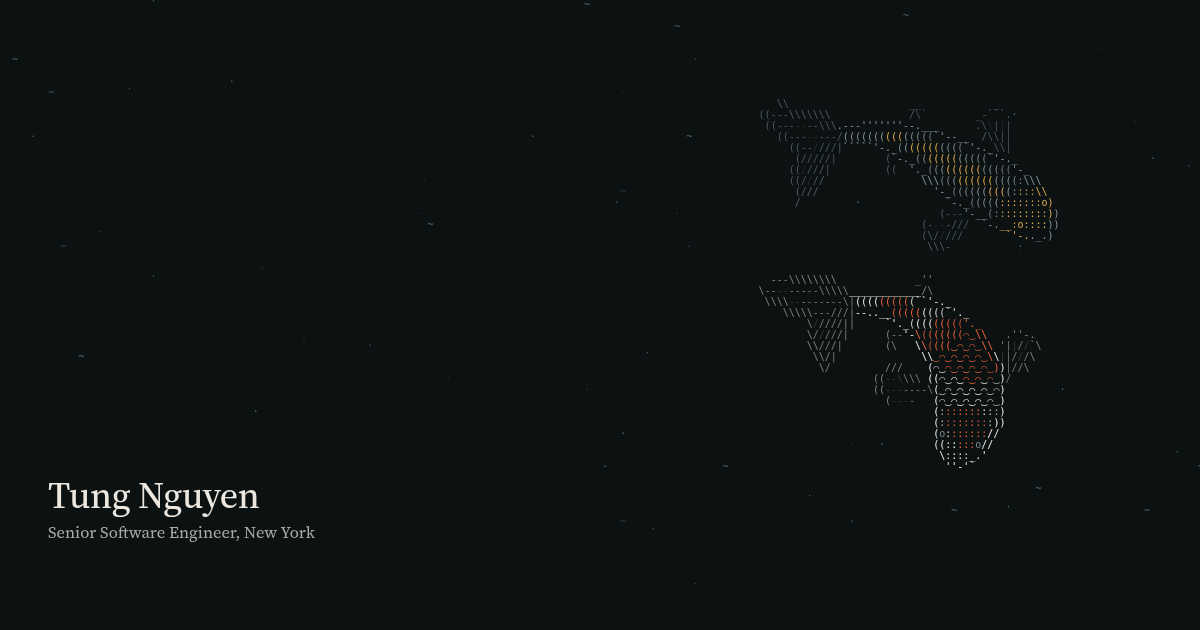
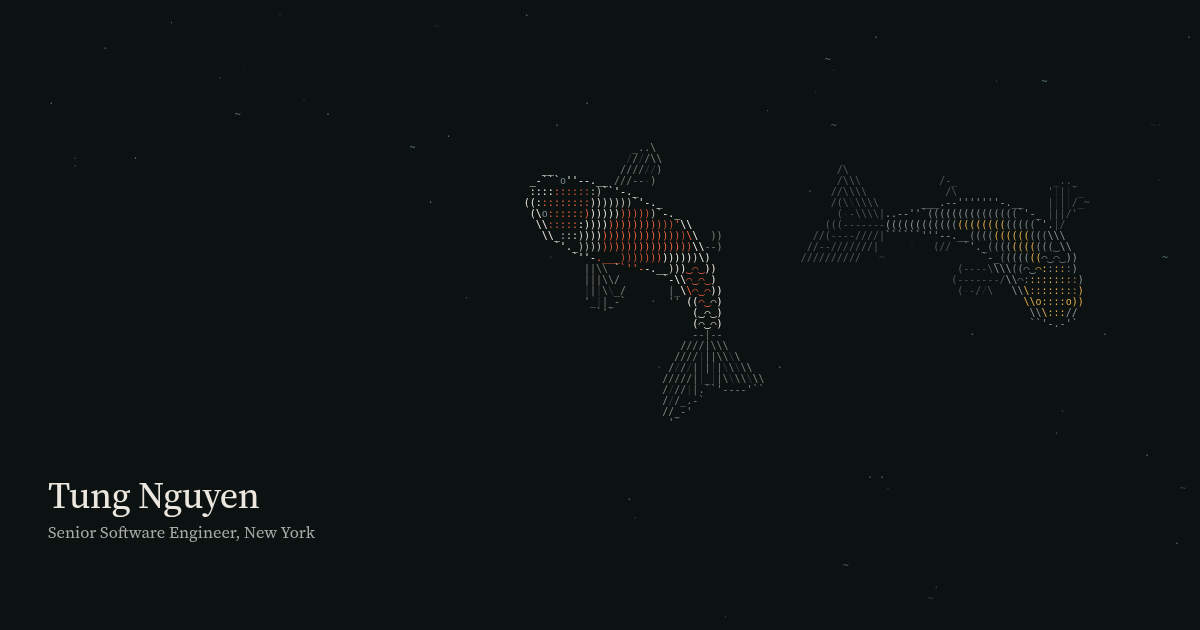
Keep the koi spine smooth: bend-limited placement instead of per-point projection, no head push at the other fish, spawn on the orbit
Each spine link is placed at the angle nearest its follow-the-leader direction, within 17 degrees of the previous link and 206 degrees of total curl, clear of the screen edge, the text and the other fish. Leftover overlap moves the whole fish by at most 1% of its length per frame. The head slides along the other fish instead of being pushed sideways, and both fish start laid along their lane at a random phase. OG still regenerated.

diff --git a/src/koi/koi.ts b/src/koi/koi.ts
@@ -1,9 +1,10 @@
 import { put, type Grid, type InkId } from './grid.ts'
-import { TAU, clamp, clear, ease, inside, smooth, wrap, type Rect } from './math.ts'
+import { TAU, clamp, clear, distance, ease, inside, smooth, wrap, type Rect } from './math.ts'
 
 export type Patch = { along: number; across: number; alongRadius: number; acrossRadius: number }
 export type Look = { body: InkId; patch: InkId; fin: InkId; eye: InkId; patches: readonly Patch[] }
-export type Water = { width: number; height: number; fence: Rect | null }
+export type Water = { width: number; height: number; fence: Rect | null; rival: Float64Array | null }
+export type Orbit = { x: number; y: number; rx: number; ry: number }
 
 export type Koi = {
   look: Look
@@ -19,6 +20,7 @@ export type Koi = {
   scull: number
   chain: Float64Array
   pressed: boolean
+  shy: { x: number; y: number }
 }
 
 const N = 30
@@ -28,6 +30,9 @@ const WIDTH = 0.118
 const WAIST = 0.26
 const FAN = 0.12
 const BEND = 0.5
+const LIMIT = 0.3
+const STEP = LIMIT / 6
+const CURL = 3.6
 
 const qx = new Float64Array(N + 1)
 const qy = new Float64Array(N + 1)
@@ -36,7 +41,6 @@ const sy = new Float64Array(N)
 const sl = new Float64Array(N)
 const hit = { s: 0, d: 0, tx: 1, ty: 0, ex: 0, ey: 0 }
 const at = { x: 0, y: 0 }
-const held = { x: 0, y: 0 }
 const root = { x: 0, y: 0 }
 const norm = { x: 0, y: 0, g: 1 }
 const span = { c0: 0, c1: 0, r0: 0, r1: 0 }
@@ -44,13 +48,18 @@ const SIDES = [-1, 1]
 let target: Grid
 let clip: Rect | null = null
 
-export function createKoi(look: Look, length: number, x: number, y: number, heading: number): Koi {
+export function createKoi(look: Look, length: number, orbit: Orbit, angle: number, water: Water): Koi {
   const chain = new Float64Array((N + 1) * 2)
+  let a = angle
   for (let i = 0; i <= N; i++) {
-    chain[i * 2] = x - Math.cos(heading) * (length / N) * i
-    chain[i * 2 + 1] = y - Math.sin(heading) * (length / N) * i
+    chain[i * 2] = orbit.x + orbit.rx * Math.cos(a)
+    chain[i * 2 + 1] = orbit.y + orbit.ry * Math.sin(a)
+    a -= length / N / (Math.hypot(orbit.rx * Math.sin(a), orbit.ry * Math.cos(a)) || 1)
   }
-  return { look, length, x, y, heading, speed: 0, turn: 0, bank: 0, phase: 0, effort: 1, scull: 0, chain, pressed: false }
+  const heading = Math.atan2(orbit.ry * Math.cos(angle), -orbit.rx * Math.sin(angle))
+  const koi = { look, length, x: chain[0], y: chain[1], heading, speed: 0, turn: 0, bank: 0, phase: 0, effort: 1, scull: 0, chain, pressed: false, shy: { x: 0, y: 0 } }
+  follow(koi, water)
+  return koi
 }
 
 export function resizeKoi(koi: Koi, length: number, scaleX: number, scaleY: number) {
@@ -74,40 +83,103 @@ export function swim(koi: Koi, dt: number, heading: number, speed: number, glidi
   koi.turn += (want - koi.turn) * ease(1.8, dt)
   koi.heading = wrap(koi.heading + koi.turn * dt)
   koi.speed += (speed - koi.speed) * ease(gliding ? 0.25 : 0.8, dt)
-  koi.x += Math.cos(koi.heading) * koi.speed * dt
-  koi.y += Math.sin(koi.heading) * koi.speed * dt
+  const vx = Math.cos(koi.heading) * koi.speed
+  const vy = Math.sin(koi.heading) * koi.speed
+  const into = Math.min(0, vx * koi.shy.x + vy * koi.shy.y)
+  koi.x += (vx - into * koi.shy.x) * dt
+  koi.y += (vy - into * koi.shy.y) * dt
   const curl = clamp((koi.turn * L * BEND) / Math.max(koi.speed, 1), -1, 1)
   koi.bank += (curl - koi.bank) * ease(2.5, dt)
   koi.effort += ((gliding ? 0.15 : 1) - koi.effort) * ease(1.1, dt)
   koi.phase += TAU * (0.2 + (1.6 * koi.speed) / L) * (0.3 + 0.7 * koi.effort) * dt
   koi.scull += TAU * (0.3 + 0.35 * Math.abs(koi.bank) + 0.2 * koi.effort) * dt
+  follow(koi, water)
+}
+
+function follow(koi: Koi, water: Water) {
   const c = koi.chain
-  const link = L / N
-  c[0] = koi.x
-  c[1] = koi.y
-  koi.pressed = hold(c, 0, L, water)
+  const L = koi.length
+  hold(koi.x, koi.y, L * margin(1), water)
+  koi.pressed = at.x !== koi.x || at.y !== koi.y
+  c[0] = at.x
+  c[1] = at.y
+  let back = Math.atan2(c[3] - c[1], c[2] - c[0])
+  let bent = 0
   for (let i = 1; i <= N; i++) {
-    const dx = c[i * 2] - c[i * 2 - 2]
-    const dy = c[i * 2 + 1] - c[i * 2 - 1]
-    const m = Math.hypot(dx, dy) || 1
-    c[i * 2] = c[i * 2 - 2] + (dx / m) * link
-    c[i * 2 + 1] = c[i * 2 - 1] + (dy / m) * link
-    hold(c, i, L, water)
+    const bend = place(c, i, L, back, bent, water)
+    back += bend
+    if (i > 1) bent += bend
   }
+  koi.pressed = nudge(c, L, water) || koi.pressed
   koi.x = c[0]
   koi.y = c[1]
 }
 
-function hold(c: Float64Array, i: number, L: number, water: Water) {
-  const s = i / N
-  const m = L * (0.03 + (s < TAIL ? halfWidth(s) : fanWidth((s - TAIL) / (1 - TAIL))))
-  held.x = clamp(c[i * 2], m, water.width - m)
-  held.y = clamp(c[i * 2 + 1], m, water.height - m)
-  if (water.fence) clear(water.fence, held, m)
-  const moved = held.x !== c[i * 2] || held.y !== c[i * 2 + 1]
-  c[i * 2] = held.x
-  c[i * 2 + 1] = held.y
-  return moved
+function hold(x: number, y: number, m: number, water: Water) {
+  at.x = clamp(x, m, water.width - m)
+  at.y = clamp(y, m, water.height - m)
+  if (water.fence) clear(water.fence, at, m)
+}
+
+function nudge(c: Float64Array, L: number, water: Water) {
+  let left = 0
+  let right = 0
+  let up = 0
+  let down = 0
+  for (let i = 1; i <= N; i++) {
+    hold(c[i * 2], c[i * 2 + 1], L * margin(i / N), water)
+    left = Math.min(left, at.x - c[i * 2])
+    right = Math.max(right, at.x - c[i * 2])
+    up = Math.min(up, at.y - c[i * 2 + 1])
+    down = Math.max(down, at.y - c[i * 2 + 1])
+  }
+  const dx = clamp(left + right, -L * 0.01, L * 0.01)
+  const dy = clamp(up + down, -L * 0.01, L * 0.01)
+  if (!dx && !dy) return false
+  for (let i = 0; i <= N; i++) {
+    c[i * 2] += dx
+    c[i * 2 + 1] += dy
+  }
+  return true
+}
+
+function margin(s: number) {
+  return 0.03 + (s < TAIL ? halfWidth(s) : fanWidth((s - TAIL) / (1 - TAIL)))
+}
+
+function place(c: Float64Array, i: number, L: number, back: number, bent: number, water: Water) {
+  const m = L * margin(i / N)
+  const link = L / N
+  const lo = Math.max(-LIMIT, -CURL - bent)
+  const hi = Math.min(LIMIT, CURL - bent)
+  const px = c[i * 2 - 2]
+  const py = c[i * 2 - 1]
+  const start = clamp(wrap(Math.atan2(c[i * 2 + 1] - py, c[i * 2] - px) - back), lo, hi)
+  let best = start
+  let least = Infinity
+  for (let k = 0; k <= 24 && least; k++) {
+    const d = start + ((k + 1) >> 1) * STEP * (k & 1 ? 1 : -1)
+    if (d < lo || d > hi) continue
+    const over = crowd(px + Math.cos(back + d) * link, py + Math.sin(back + d) * link, m, m + L * WIDTH, water)
+    if (over < least) {
+      least = over
+      best = d
+    }
+  }
+  c[i * 2] = px + Math.cos(back + best) * link
+  c[i * 2 + 1] = py + Math.sin(back + best) * link
+  return best
+}
+
+function crowd(x: number, y: number, m: number, apart: number, water: Water) {
+  let over = Math.max(0, m - x, x - water.width + m) + Math.max(0, m - y, y - water.height + m)
+  if (water.fence) over += Math.max(0, m - distance(water.fence, x, y))
+  over *= 4
+  const r = water.rival
+  if (!r) return over
+  let near = Infinity
+  for (let j = 0; j < r.length; j += 4) near = Math.min(near, Math.hypot(x - r[j], y - r[j + 1]))
+  return over + Math.max(0, apart - near)
 }
 
 function halfWidth(s: number) {

diff --git a/src/koi/pond.ts b/src/koi/pond.ts
@@ -85,7 +85,7 @@ export function createPond(seed = 11): Pond {
     { x: 0, y: 0 },
     { x: 0, y: 0 },
   ]
-  const water: Water = { width: 1, height: 1, fence: null }
+  const water: Water = { width: 1, height: 1, fence: null, rival: null }
 
   function settle(L: number) {
     const { width, height, keepOut } = layout
@@ -111,7 +111,10 @@ export function createPond(seed = 11): Pond {
     const L = next.length
     settle(L)
     if (koi.length) koi.forEach((k, i) => resizeKoi(k, L * SIZES[i], steady ? 1 : sx, steady ? 1 : sy))
-    else koi = [createKoi(KOHAKU, L, home.x + home.rx, home.y, Math.PI / 2), createKoi(SUMI, L * SIZES[1], home.x - home.rx, home.y, -Math.PI / 2)]
+    else {
+      const turn = rand() * TAU
+      koi = [createKoi(KOHAKU, L, orbit(L, 0), turn, water), createKoi(SUMI, L * SIZES[1], orbit(L * SIZES[1], 1), turn + Math.PI, water)]
+    }
     const count = Math.round((next.width * next.height) / 9000)
     specks.length = Math.min(specks.length, count)
     while (specks.length < count) specks.push(respawn({ x: 0, y: 0, vx: 0, vy: 0, age: 0, life: 1, glyph: '' }, rand()))
@@ -145,12 +148,17 @@ export function createPond(seed = 11): Pond {
     return box ? Math.hypot(x - clamp(x, box.x, box.x + box.w), y - clamp(y, box.y, box.y + box.h)) : Infinity
   }
 
-  function circle(k: Koi, i: number) {
+  function orbit(L: number, i: number) {
     const lane = (1 + 0.18 * Math.sin(time * 0.071 + i * 2.1)) * LANES[i]
     centre.x = home.x + home.rx * 0.25 * Math.sin(time * 0.043)
     centre.y = home.y + home.ry * 0.2 * Math.cos(time * 0.031)
-    centre.rx = Math.max(k.length * 0.45, home.rx) * lane
-    centre.ry = Math.max(k.length * 0.42, home.ry) * lane
+    centre.rx = Math.max(L * 0.45, home.rx) * lane
+    centre.ry = Math.max(L * 0.42, home.ry) * lane
+    return centre
+  }
+
+  function circle(k: Koi, i: number) {
+    orbit(k.length, i)
     const qx = (k.x - centre.x) / centre.rx
     const qy = (k.y - centre.y) / centre.ry
     const tangent = Math.hypot(qy * centre.rx, qx * centre.ry) || 1
@@ -194,12 +202,11 @@ export function createPond(seed = 11): Pond {
   }
 
   function shoulder(k: Koi, other: Koi) {
-    const min = k.length * 0.32
     nearest(other, k.x, k.y)
-    if (gap.d >= min) return
-    k.x += (gap.x / gap.d) * (min - gap.d)
-    k.y += (gap.y / gap.d) * (min - gap.d)
-    k.pressed = true
+    const near = 1 - smooth((gap.d - k.length * 0.32) / (k.length * 0.15))
+    k.shy.x = (gap.x / gap.d) * near
+    k.shy.y = (gap.y / gap.d) * near
+    k.pressed ||= near > 0.5
   }
 
   function curiosity(k: Koi, i: number) {
@@ -214,7 +221,7 @@ export function createPond(seed = 11): Pond {
   }
 
   function stayIn(k: Koi) {
-    const margin = k.length * 0.45
+    const margin = k.length * 0.6
     const { width, height } = layout
     for (const reach of WALL_PROBES) {
       look(k, reach)
@@ -252,6 +259,7 @@ export function createPond(seed = 11): Pond {
     }
     const gliding = glide[i] > 0 && !(interest && interest.age < 4)
     const eager = interest ? 1 + 0.35 * (1 - smooth((interest.age - 3) / 3)) : 1
+    water.rival = other.chain
     swim(k, dt, Math.atan2(urge.y, urge.x), gliding ? cruise * 0.5 : cruise * eager, gliding, urge.urgency, water)
   }
 

diff --git a/src/koi/math.ts b/src/koi/math.ts
@@ -35,6 +35,12 @@ export function clear(box: Rect, p: Point, margin: number) {
   } else p.y = box.y - margin
 }
 
+export function distance(box: Rect, x: number, y: number) {
+  const dx = Math.max(box.x - x, x - box.x - box.w)
+  const dy = Math.max(box.y - y, y - box.y - box.h)
+  return dx > 0 || dy > 0 ? Math.hypot(Math.max(dx, 0), Math.max(dy, 0)) : Math.max(dx, dy)
+}
+
 export function random(seed: number) {
   let a = seed >>> 0
   return () => {
